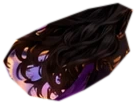
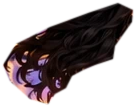
Update Site source

diff --git a/public/game/title-character-life.js b/public/game/title-character-life.js
@@ -26,6 +26,8 @@
   }
   // The shield is a rigid foreground object in front of the flowing hair.
   ctx.save();ctx.beginPath();[[632,611],[656,637],[682,622],[669,692],[635,744],[592,775],[547,785],[546,746],[562,696],[587,654]].forEach(([x,y],i)=>i?ctx.lineTo(x,y):ctx.moveTo(x,y));ctx.closePath();ctx.clip();ctx.drawImage(art,0,0);ctx.restore();
+  // Mira's armour, straps and cape remain rigid beneath the separate hair.
+  ctx.save();ctx.beginPath();[[446,546],[481,546],[481,701],[345,701],[345,652],[359,645],[369,637],[378,631],[385,621],[396,615],[407,609],[425,604],[430,591],[436,577],[446,562]].forEach(([x,y],i)=>i?ctx.lineTo(x,y):ctx.moveTo(x,y));ctx.closePath();ctx.clip();ctx.drawImage(art,0,0);ctx.restore();
   // Mira's expression shifts slightly with her hair, without moving her feet.
   const dx=1.25*Math.sin(now/1700+1.7);ctx.save();ctx.beginPath();ctx.ellipse(450,547,12,17,-.2,0,Math.PI*2);ctx.clip();ctx.drawImage(art,434,528,34,40,434+dx,528,34,40);ctx.restore();
   // Distinct open and closed painted frames give Sparky an actual mouth cycle.

diff --git a/public/game/index.html b/public/game/index.html
@@ -169,8 +169,8 @@
 <script src="resonance-machine.js?v=255"></script>
 <script src="hall-opening.js?v=271"></script>
 <script src="hall-service-greetings.js?v=254"></script>
-<script src="title-character-life.js?v=278"></script>
-<script src="title-presentation.js?v=278"></script>
+<script src="title-character-life.js?v=279"></script>
+<script src="title-presentation.js?v=279"></script>
 <link rel="stylesheet" href="title-presentation.css?v=259">
 <script src="battle-action-model.js?v=266"></script>
 <script src="battle-command.js?v=277"></script>
